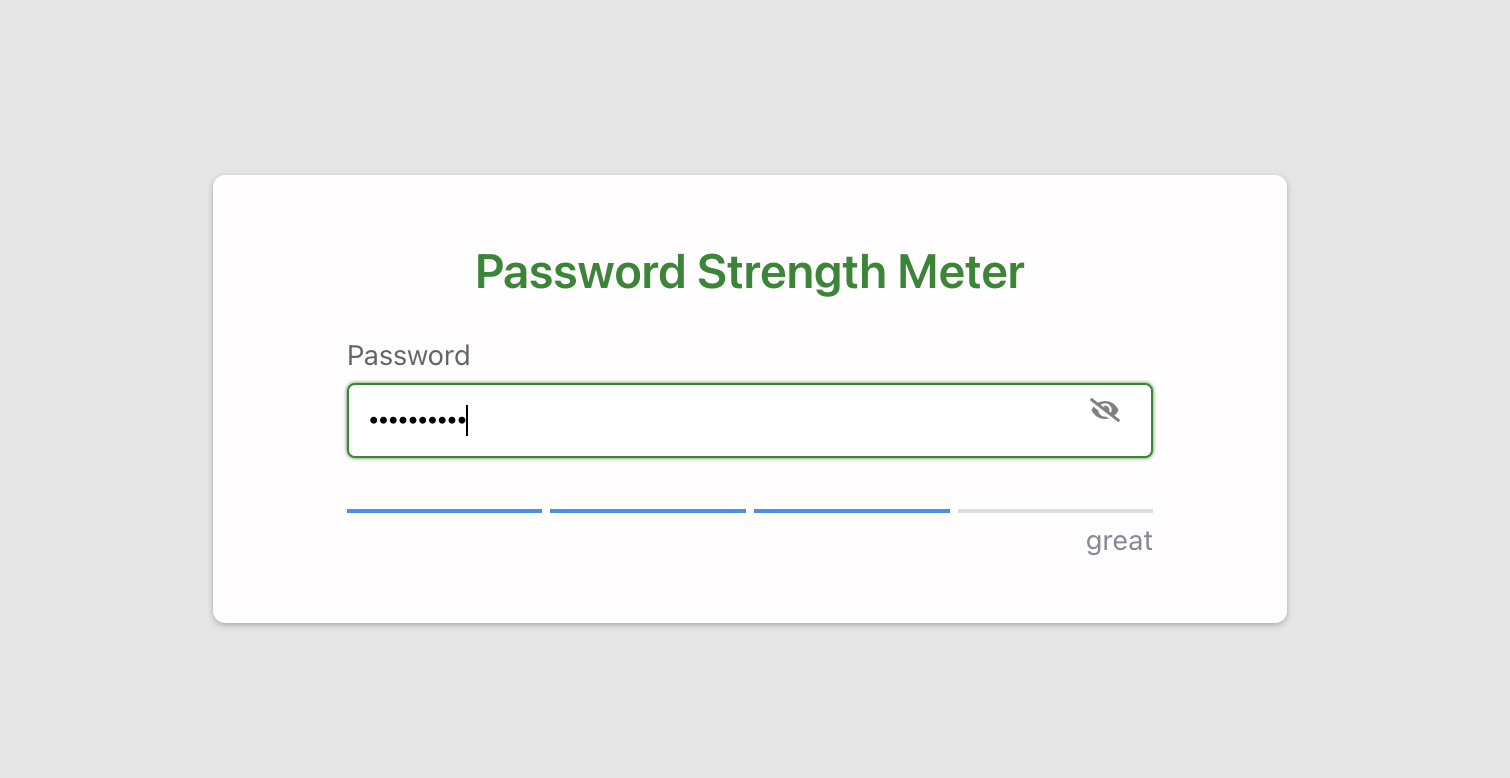
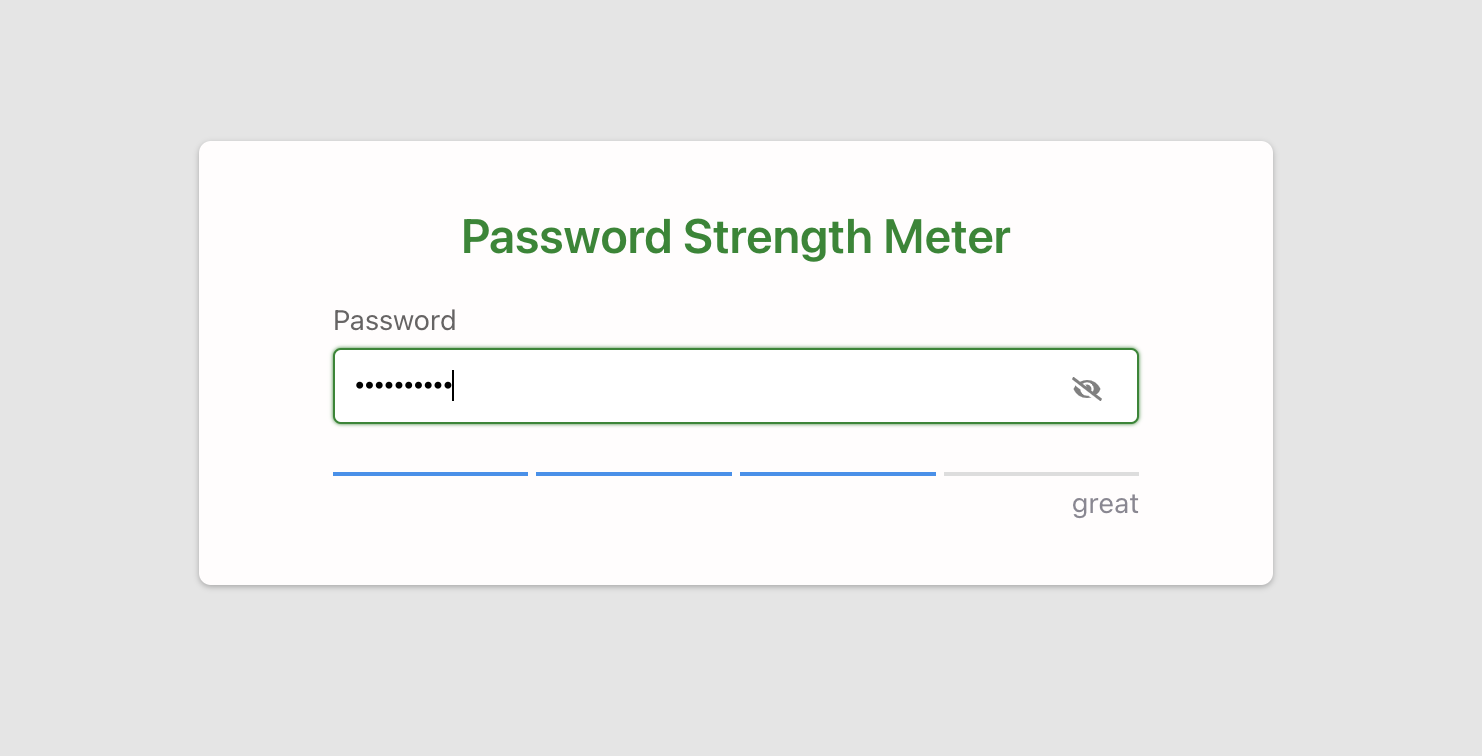
feat: implement white space prevention in input field

Changed region(s): [[0.1242, 0.1825, 0.8691, 0.8214], [0.2173, 0.3955, 0.776, 0.7302], [0.3104, 0.2738, 0.6829, 0.3955]]

diff --git a/src/components/Password/PasswordField.tsx b/src/components/Password/PasswordField.tsx
@@ -40,6 +40,7 @@ const RegisterForm = () => {
   const [passwordShown, setPasswordShown] = useState<boolean>(false);
 
   const handleChange = (event: React.ChangeEvent<HTMLInputElement>) => {
+    // By adding .split(' ').join('') or .replace(/\s/g, '') or .trim() to prevent to enter space in input field
     const newValue = event.target.value;
     setPassword(newValue);
   };
@@ -56,7 +57,7 @@ const RegisterForm = () => {
         <Label>Password</Label>
         <InputField
           {...register('password')}
-          value={password}
+          value={password.trim()}
           type={passwordShown ? 'text' : 'password'}
           placeholder="Enter your password"
           onChange={handleChange}

diff --git a/src/components/Input/components/EyeCloseOpenIcon.tsx b/src/components/Input/components/EyeCloseOpenIcon.tsx
@@ -1,10 +1,14 @@
 import styled from 'styled-components';
 import { Icon } from './Icon';
 
+const IconLayout = styled.div`
+  width: 100%;
+`;
+
 const InputIcon = styled.button`
   width: 5%;
   position: relative;
-  bottom: 29%;
+  bottom: 135%;
   left: 91%;
   padding: 0;
   background: none;
@@ -20,12 +24,12 @@ interface InputProps {
 export const EyeCloseOpenIcon = (props: InputProps) => {
   const { icon, onClick } = props;
   return (
-    <>
+    <IconLayout>
       {icon ? (
         <InputIcon onClick={onClick}>
           <Icon icon={icon} />
         </InputIcon>
       ) : null}
-    </>
+    </IconLayout>
   );
 };

diff --git a/README.md b/README.md
@@ -6,9 +6,10 @@
 - Install Nodejs if you haven't installed it yet
 - Install dependencies
 
-        yarn install
+  yarn install
 
 - Run the application
+
   yarn start
 
 ### Live App
